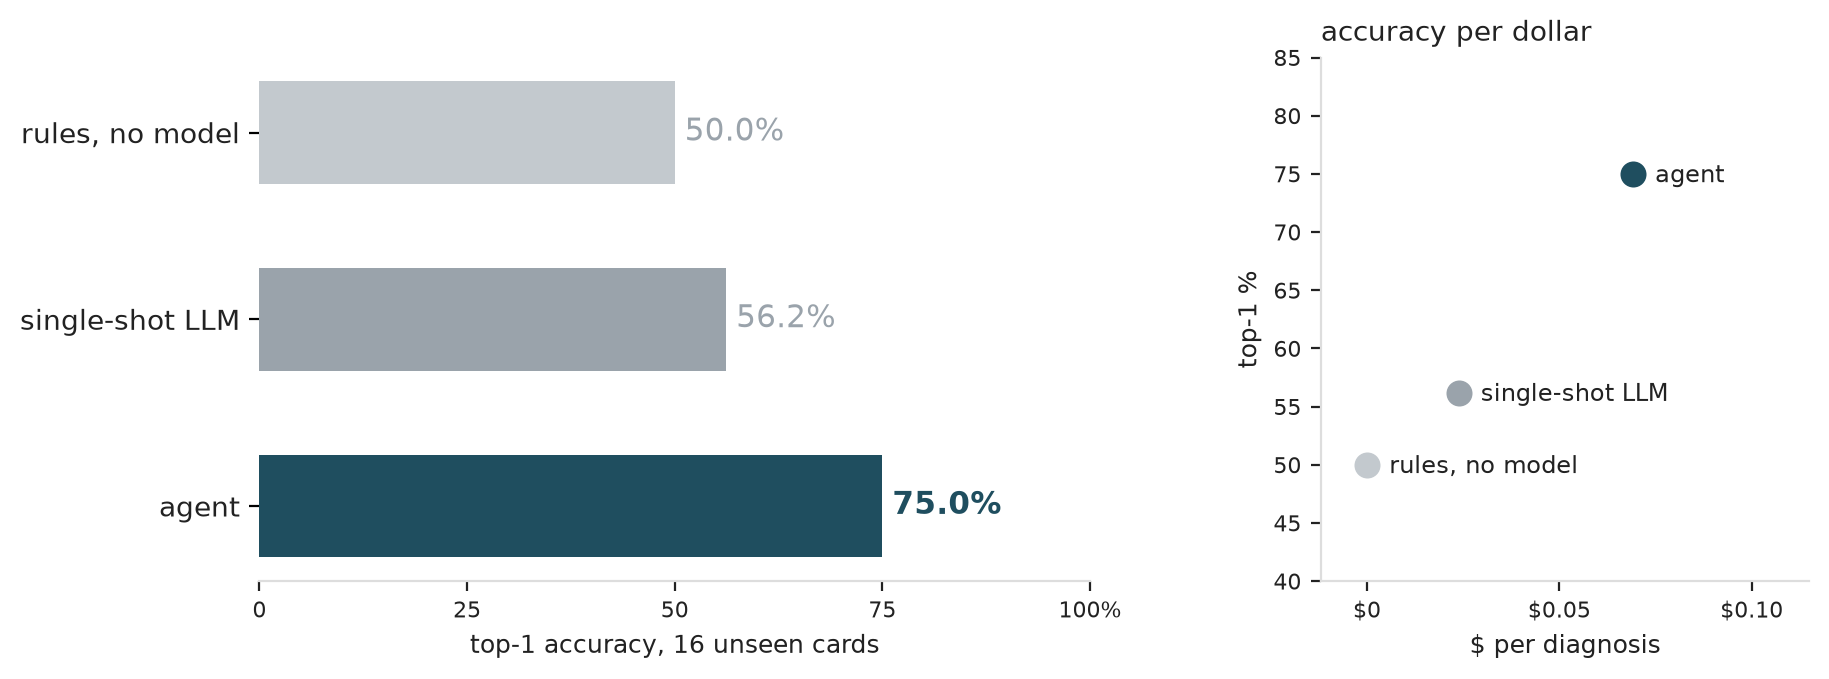
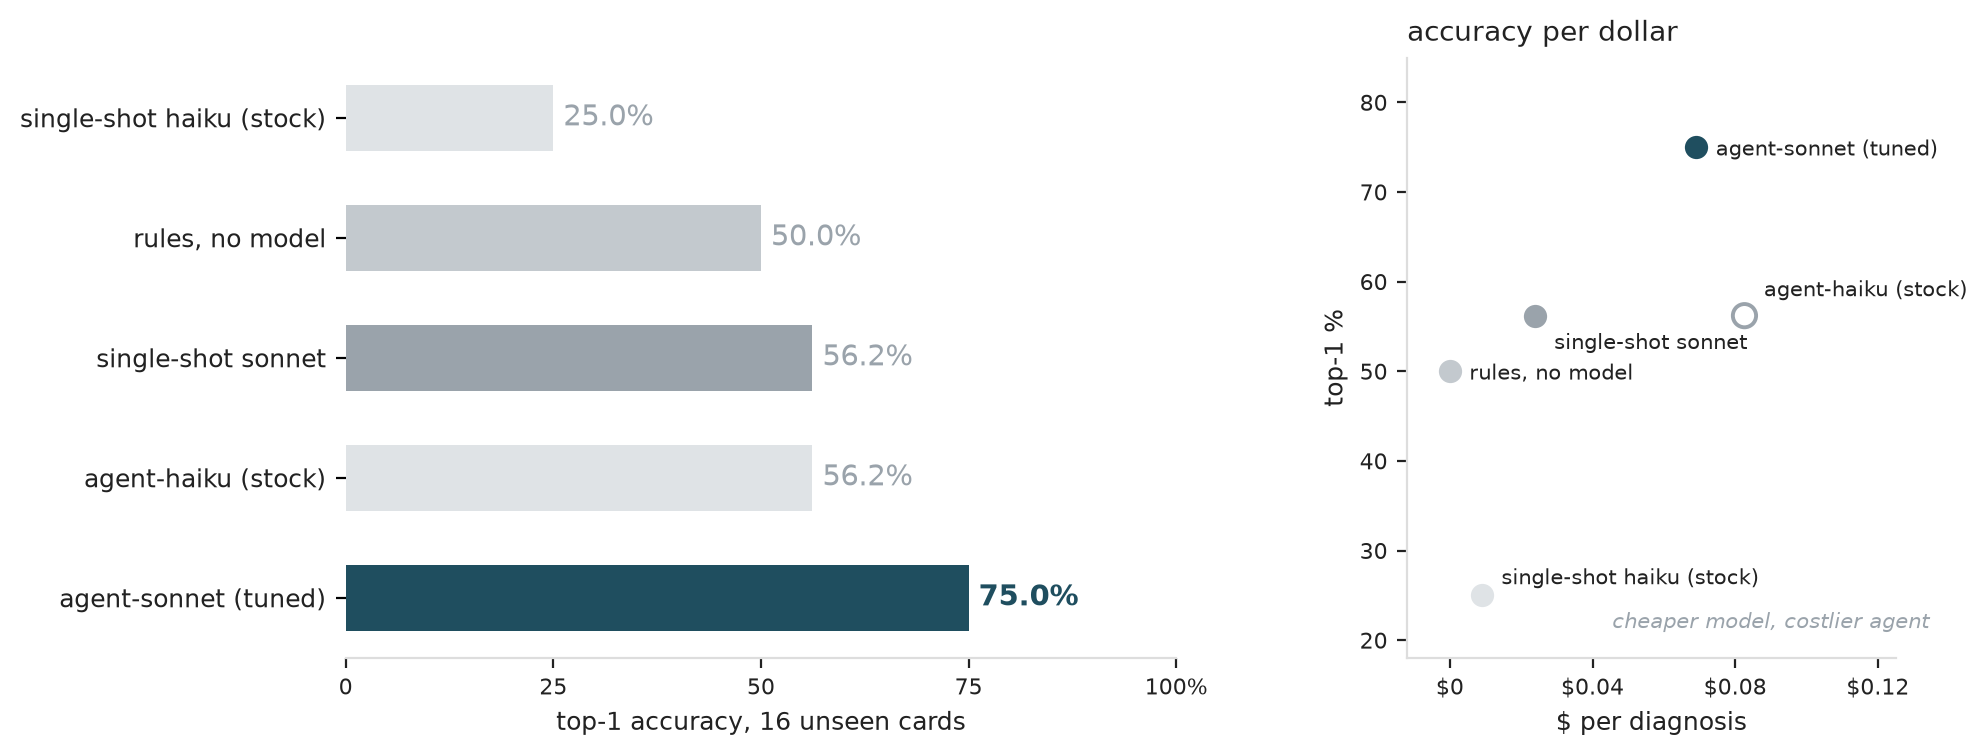
README: five arms, stock and tuned configurations
The haiku arms landed (c54a6c8), so the figure, the results table and the arm
names follow evidence_audit C7: single-shot haiku (stock), agent-haiku (stock),
agent-sonnet (tuned). C7 is explicit that this is not a model comparison -- haiku
4.5 rejects the thinking and effort parameters the tuned arms use, so swapping the
model swaps three variables -- and the page says so in Limitations rather than
claiming a comparison it cannot support. The no-tools gap is not quoted anywhere:
C7 rules it out as unstable between the two card sets.

Figure: five bars sorted by accuracy, both stock arms in the lightest grey since
they are one configuration rather than two independent results, agent-sonnet in
the accent; the scatter marks agent-haiku hollow and labels the point that matters
-- 2.5x the steps, $3.30 against $3.12, and 18.6 points lower.

Two counts that were about to go stale are now generated as well: the "N more"
findings line counts the F headings in open_items.md, and the agent's failure
modes count the subsections in findings.md -- which had already grown to five.

diff --git a/scripts/tools/readme_check.py b/scripts/tools/readme_check.py
@@ -51,8 +51,9 @@ KEY SOURCES -- each line is the locator docs/evidence_audit.md cites.
   guards                run_agent.py: 3 counters plus 2 `terminated` breakers            (B2)
   max_steps, cost_cap   scripts/agent/config.yaml run.*                                  (B2)
   devset, devset_move   artifacts/agent_runs/devset_20260828 and devset_v2_20260828      (B4)
-  badges, hero_*        merged_holdout16_20260906/report.md, the arm table           (C3, C5)
-  table_all43           merged_all43_20260906/report.md, the arm table               (C4, C5)
+  badges, hero_*        fivearm_holdout16_20260906/report.md, the arm table      (C3, C5, C7)
+  table_all43           fivearm_all43_20260906/report.md, the arm table          (C4, C5, C7)
+  haiku_*, sonnet_spend the same five-arm table: steps ratio, totals, top-1 gap       (C7)
   overfit_*             baseline1.json of baselines_20260828, class-aligned against
                         merged_holdout16_20260906, regraded with run_eval.grade's rule   (C6)
   ci_gates              `gate N:` steps in .github/workflows/ci.yml                      (D1)
@@ -62,6 +63,8 @@ KEY SOURCES -- each line is the locator docs/evidence_audit.md cites.
                         plus each row of baseline1/baseline2.json, merged_* excluded     (E1)
   scale                 git rev-list --count HEAD, wc -l of the tracked code at HEAD     (E2)
   f1_*                  the numbers in the F-1 heading of docs/open_items.md              (D3)
+  more_findings         `## F-N` headings in docs/open_items.md, minus the 3 listed       (D3)
+  failure_modes         `### 1.N` headings in docs/findings.md                            (D3)
   walkthrough_*         one frozen run json plus its card's ground truth
   figure_arms           markdown image line; the png is redrawn by make_figures.py
 """
@@ -89,6 +92,11 @@ WALKTHROUGH_CARD = "blackhole-shipping-01"
 WALKTHROUGH_RUN = "holdout11_agent_20260906"
 
 BADGE_GREY, BADGE_ACCENT = "555", "1f4e5f"
+
+# F items the Findings section spells out; the rest are summed into "N more".
+LISTED_FINDINGS = 3
+NUMBER_WORD = {1: "One", 2: "Two", 3: "Three", 4: "Four", 5: "Five",
+               6: "Six", 7: "Seven", 8: "Eight", 9: "Nine"}
 
 # Keys whose value moves without anyone editing code. --check compares the first
 # number in them with slack instead of demanding the exact string.
@@ -165,37 +173,52 @@ def config():
 
 # ------------------------------------------------------- eval report parsing
 
-ARM_KEYS = [("关键词", "rules"), ("单轮", "single_shot"), ("agent", "agent")]
-ARM_LABEL = {"rules": "rules, no model", "single_shot": "single-shot LLM", "agent": "agent"}
+# Arm labels are Chinese in the reports and one config per arm in the README. The
+# names follow evidence_audit C7: the cheap arms run stock because haiku 4.5
+# rejects the thinking and effort parameters the tuned arms use, so "stock" and
+# "tuned" are part of the arm's name, not a footnote.
+ARM_LABEL = {"rules": "rules, no model",
+             "single_shot_sonnet": "single-shot sonnet",
+             "single_shot_haiku": "single-shot haiku (stock)",
+             "agent_haiku": "agent-haiku (stock)",
+             "agent_sonnet": "agent-sonnet (tuned)"}
 
 
 def arm_key(name):
-    """Report label to stable key. A haiku arm gets a haiku_ prefix, so a
-    cross-configuration report widens the key set instead of colliding with it."""
-    base = None
-    for needle, key in ARM_KEYS:
-        if needle in name:
-            base = key
-    if base is None:
-        return None
-    return ("haiku_" + base) if "haiku" in name.lower() else base
+    """Report label to stable key."""
+    low = name.lower()
+    family = "haiku" if "haiku" in low else "sonnet"
+    if "规则" in name or "关键词" in name:
+        return "rules"
+    if "agent" in low:
+        return f"agent_{family}"
+    if "单轮" in name:
+        return f"single_shot_{family}"
+    return None
 
 
 def report_table(run_dir):
-    """The arm table of a comparison report: {arm_key: {metric: text}}."""
-    body = read(f"artifacts/agent_runs/{run_dir}/report.md")
-    body = body.split("## 四指标对照", 1)[1].split("\n## ", 1)[0]
+    """The arm table of a comparison report: {arm_key: {metric: text}}. Both the
+    three-arm and the five-arm reports open their table with `| 臂 |`, and their
+    first six columns line up, so one parser covers both."""
+    lines = read(f"artifacts/agent_runs/{run_dir}/report.md").split("\n")
+    start = next(i for i, l in enumerate(lines) if l.startswith("| 臂 |"))
     out = collections.OrderedDict()
-    for line in body.strip().split("\n"):
-        if not line.startswith("|") or "---" in line or "top-1" in line:
+    for line in lines[start + 1:]:
+        if not line.startswith("|"):
+            break
+        if "---" in line:
             continue
-        cells = [c.strip() for c in line.strip("|").split("|")]
+        cells = [c.strip().replace("**", "").replace("（", " (").replace("）", ")")
+                 for c in line.strip("|").split("|")]
         key = arm_key(cells[0])
         if key is None:
             continue
-        clean = [c.replace("**", "").replace("（", " (").replace("）", ")") for c in cells]
-        out[key] = {"top1": clean[1], "service": clean[2], "steps": clean[3],
-                    "cost": clean[4], "p95": clean[5]}
+        row = {"top1": cells[1], "service": cells[2], "steps": cells[3],
+               "cost": cells[4], "p95": cells[5]}
+        if len(cells) > 6:
+            row["total"] = cells[6]
+        out[key] = row
     return out
 
 
@@ -314,8 +337,8 @@ def compute():
     rows = recipe_rows()
     stock = instock()
     cfg = config()
-    hold = report_table("merged_holdout16_20260906")
-    all43 = report_table("merged_all43_20260906")
+    hold = report_table("fivearm_holdout16_20260906")
+    all43 = report_table("fivearm_all43_20260906")
     o = overfit()
     hours, batches = batch_logs()
     spend, _runs = api_spend()
@@ -326,10 +349,11 @@ def compute():
     n_stock = len(stock)
     n_hold = len(json.loads(read("scripts/baselines/cardset_holdout16.json")))
     n_eval = len(json.loads(read("scripts/baselines/cardset_all43.json")))
-    top1 = f"{pct_of(hold['agent']['top1']):.1f}%"
-    cost = "${:.3f}".format(usd_of(hold["agent"]["cost"]))
-    p95 = "{:.0f} s".format(float(re.search(r"([0-9.]+)s", hold["agent"]["p95"]).group(1)))
-    gain = pct_of(hold["agent"]["top1"]) - pct_of(hold["single_shot"]["top1"])
+    agent = hold["agent_sonnet"]
+    top1 = f"{pct_of(agent['top1']):.1f}%"
+    cost = "${:.3f}".format(usd_of(agent["cost"]))
+    p95 = "{:.0f} s".format(float(re.search(r"([0-9.]+)s", agent["p95"]).group(1)))
+    gain = pct_of(agent["top1"]) - pct_of(hold["single_shot_sonnet"]["top1"])
 
     v = {}
 
@@ -345,10 +369,10 @@ def compute():
         f"| holdout top-1, agent on {n_hold} unseen cards "
         f"| over the single-shot LLM on the same cards | per diagnosis, wall clock |",
     ])
-    v["figure_arms"] = ("![Top-1 on the {} unseen holdout cards: rules {}, single-shot "
-                        "LLM {}, agent {}](docs/figures/arms_holdout16.png)").format(
-        n_hold, hold["rules"]["top1"].split(" ")[0],
-        hold["single_shot"]["top1"].split(" ")[0], top1)
+    v["figure_arms"] = "![Top-1 on the {} unseen holdout cards: {}]({})".format(
+        n_hold, ", ".join("{} {}".format(ARM_LABEL[k], m["top1"].split(" ")[0])
+                          for k, m in hold.items()),
+        "docs/figures/arms_holdout16.png")
     v["figure_pipeline"] = ("![Pipeline: testbed, fault primitives, scenario cards, probe "
                             "verdicts, evidence packs, three arms, harness, findings]"
                             "(docs/figures/pipeline.png)")
@@ -432,6 +456,21 @@ def compute():
     v["spend"] = "${:.0f} in metered API calls".format(spend)
     v["scale"] = "~{:.0f} commits and ~{:.0f}k lines of Python and shell".format(
         round(commits / 10.0) * 10, code_k)
+
+    # Cross-configuration arms (evidence_audit C7): the cheap arm is not cheaper.
+    v["haiku_steps_ratio"] = "{:.1f}\u00d7 the steps".format(
+        float(all43["agent_haiku"]["steps"]) / float(all43["agent_sonnet"]["steps"]))
+    v["haiku_spend"] = "${:.2f}".format(usd_of(all43["agent_haiku"]["total"]))
+    v["sonnet_spend"] = "${:.2f}".format(usd_of(all43["agent_sonnet"]["total"]))
+    v["haiku_gap"] = "{:.1f} points lower".format(
+        pct_of(all43["agent_sonnet"]["top1"]) - pct_of(all43["agent_haiku"]["top1"]))
+
+    # The Findings section lists 3 of the F items by hand; the rest are counted, so
+    # the "N more" cannot drift when a finding is added.
+    n_more = len(re.findall(r"^## F-\d", read("docs/open_items.md"), re.M)) - LISTED_FINDINGS
+    v["more_findings"] = "{} more".format(NUMBER_WORD[n_more])
+    v["failure_modes"] = "{} failure modes".format(NUMBER_WORD[
+        len(re.findall(r"^### 1\.\d ", read("docs/findings.md"), re.M))].lower())
 
     f1 = re.search(r"^## F-1.*?(\d+)%.*?(\d+) s ", read("docs/open_items.md"), re.M)
     v["f1_rate"] = f"{f1.group(1)}% failure rate"

diff --git a/scripts/tools/make_figures.py b/scripts/tools/make_figures.py
@@ -27,10 +27,20 @@ PIPELINE_PNG = os.path.join(FIGURES, "pipeline.png")
 
 # Two greys and one dark accent: the eye should land on the agent bar and nowhere
 # else. Text is near-black rather than black to sit calmly on white.
-GREY, GREY_DARK, ACCENT, INK = "#c3c9ce", "#9aa3ab", "#1f4e5f", "#222222"
-ARMS = [("rules, no model", "rules", GREY),
-        ("single-shot LLM", "single_shot", GREY_DARK),
-        ("agent", "agent", ACCENT)]
+GREY_LIGHT, GREY, GREY_DARK = "#dfe3e6", "#c3c9ce", "#9aa3ab"
+ACCENT, INK = "#1f4e5f", "#222222"
+
+# Five arms. The two stock-configuration arms share the lightest grey: they are one
+# configuration, not two independent results (evidence_audit C7). Hollow marker on
+# agent-haiku in the scatter, because that point is the one worth looking at.
+# Hand-placed so the two arms that land on the same accuracy do not overlap.
+LABEL_OFFSET = {"single_shot_sonnet": (7, -12), "agent_haiku": (7, 7),
+                "single_shot_haiku": (7, 4)}
+ARM_STYLE = {"rules": (GREY, True),
+             "single_shot_sonnet": (GREY_DARK, True),
+             "single_shot_haiku": (GREY_LIGHT, True),
+             "agent_haiku": (GREY_LIGHT, False),
+             "agent_sonnet": (ACCENT, True)}
 
 
 def arms_holdout16(values):
@@ -44,23 +54,25 @@ def arms_holdout16(values):
 
     sys.path.insert(0, HERE)
     import readme_check
-    table = readme_check.report_table("merged_holdout16_20260906")
-    rows = [(label, readme_check.pct_of(table[key]["top1"]),
-             readme_check.usd_of(table[key]["cost"]), color)
-            for label, key, color in ARMS]
+    table = readme_check.report_table("fivearm_holdout16_20260906")
+    rows = sorted(((key, readme_check.ARM_LABEL[key], readme_check.pct_of(m["top1"]),
+                    readme_check.usd_of(m["cost"])) for key, m in table.items()),
+                  key=lambda r: r[2])
 
     fig, (bar, scat) = plt.subplots(
-        1, 2, figsize=(10, 3.4), dpi=200,
+        1, 2, figsize=(10, 3.9), dpi=200,
         gridspec_kw={"width_ratios": [1.7, 1.0], "wspace": 0.35})
     fig.patch.set_facecolor("white")
 
     ys = range(len(rows))
-    bar.barh(list(ys), [r[1] for r in rows], color=[r[3] for r in rows], height=0.55)
-    for y, (label, pct, _cost, color) in zip(ys, rows):
+    bar.barh(list(ys), [r[2] for r in rows],
+             color=[ARM_STYLE[r[0]][0] for r in rows], height=0.55)
+    for y, (key, _label, pct, _cost) in zip(ys, rows):
+        color = ARM_STYLE[key][0]
         bar.text(pct + 1.2, y, f"{pct:.1f}%", va="center", ha="left",
-                 color=color if color != GREY else GREY_DARK, fontsize=11,
+                 color=color if color == ACCENT else GREY_DARK, fontsize=10.5,
                  fontweight="bold" if color == ACCENT else "normal")
-    bar.set_yticks(list(ys), [r[0] for r in rows], fontsize=10, color=INK)
+    bar.set_yticks(list(ys), [r[1] for r in rows], fontsize=9, color=INK)
     bar.invert_yaxis()
     bar.set_xlim(0, 100)
     bar.set_xticks([0, 25, 50, 75, 100], ["0", "25", "50", "75", "100%"])
@@ -70,16 +82,22 @@ def arms_holdout16(values):
         bar.spines[side].set_visible(False)
     bar.spines["bottom"].set_color("#dddddd")
 
-    for label, pct, cost, color in rows:
-        scat.scatter([cost], [pct], s=70, color=color, zorder=3)
+    for key, label, pct, cost in rows:
+        color, filled = ARM_STYLE[key]
+        scat.scatter([cost], [pct], s=70, zorder=3,
+                     color=color if filled else "none",
+                     edgecolors=GREY_DARK if not filled else color,
+                     linewidths=1.4 if not filled else 0)
         scat.annotate(label, (cost, pct), textcoords="offset points",
-                      xytext=(8, -3), fontsize=8.5, color=INK)
+                      xytext=LABEL_OFFSET.get(key, (7, -3)), fontsize=7.5, color=INK)
+    scat.text(0.42, 0.05, "cheaper model, costlier agent", transform=scat.transAxes,
+              fontsize=7.5, color=GREY_DARK, style="italic")
     scat.set_title("accuracy per dollar", fontsize=10, color=INK, loc="left")
     scat.set_xlabel("$ per diagnosis", fontsize=9, color=INK)
     scat.set_ylabel("top-1 %", fontsize=9, color=INK)
-    scat.set_xlim(-0.012, 0.115)
-    scat.set_xticks([0.00, 0.05, 0.10], ["$0", "$0.05", "$0.10"])
-    scat.set_ylim(40, 85)
+    scat.set_xlim(-0.012, 0.125)
+    scat.set_xticks([0.00, 0.04, 0.08, 0.12], ["$0", "$0.04", "$0.08", "$0.12"])
+    scat.set_ylim(18, 85)
     scat.tick_params(labelsize=8, colors=INK)
     for side in ("top", "right"):
         scat.spines[side].set_visible(False)

diff --git a/README.md b/README.md
@@ -22,11 +22,11 @@ A script injects one fault into a running OpenTelemetry Demo and reverts it. The
 
 <!-- GEN:figure_arms -->
 
-![Top-1 on the 16 unseen holdout cards: rules 50.0%, single-shot LLM 56.2%, agent 75.0%](docs/figures/arms_holdout16.png)
+![Top-1 on the 16 unseen holdout cards: rules, no model 50.0%, single-shot sonnet 56.2%, single-shot haiku (stock) 25.0%, agent-haiku (stock) 56.2%, agent-sonnet (tuned) 75.0%](docs/figures/arms_holdout16.png)
 
 <!-- /GEN -->
 
-Three arms on 16 unseen cards: rules over the pack, one model turn with no tools, and an agent with 6 read-only tools. One card is worth 6.25 points here, so the gaps are an ordering rather than a measurement.
+Five arms on 16 unseen cards: rules over the pack, one model turn with no tools, and an agent with 6 read-only tools, the last two run in a stock and a tuned configuration. One card is worth 6.25 points here, so the gaps are an ordering rather than a measurement.
 
 ## One diagnosis, start to finish
 
@@ -82,18 +82,19 @@ The agent never sees the card id, the primitive that ran, or the ground truth: i
 - **Rules, no model.** A deterministic walk of the topology out from the alerting services, every threshold taken from constants the harness already used. Zero API calls.
 - **Single-shot LLM.** One model turn over a fixed digest of the same pack, no tools, same model and answer space as the agent. The only variable between them is the loop.
 - Tuning is measurable on the rules arm: class-aligned, it falls 16.7 points from 12/18 on cards it was tuned on to 8/16 on cards it has not seen, blackhole going 3/6 to 0/6.
+- The stock arms run haiku 4.5 without thinking or effort, which that model rejects; the tuned arms run sonnet 5 with both. Prompt, tools, guards and breakers are identical across all five.
 
 <!-- GEN:table_all43 -->
 
 | arm | top-1 | service-only | steps | cost/card | p95 |
 | --- | ---: | ---: | ---: | ---: | ---: |
 | rules, no model | 62.8% (27/43) | 72.1% (31/43) | 1.00 | $0.0000 | 0.4s |
-| single-shot LLM | 46.5% (20/43) | 72.1% (31/43) | 1.00 | $0.0240 | 38.9s |
-| agent | 65.1% (28/43) | 83.7% (36/43) | 5.40 | $0.0726 | 63.8s |
+| single-shot sonnet | 46.5% (20/43) | 72.1% (31/43) | 1.00 | $0.0240 | 38.9s |
+| single-shot haiku (stock) | 39.5% (17/43) | 69.8% (30/43) | 1.00 | $0.0091 | 9.8s |
+| agent-haiku (stock) | 46.5% (20/43) | 60.5% (26/43) | 13.40 | $0.0768 | 93.0s |
+| agent-sonnet (tuned) | 65.1% (28/43) | 83.7% (36/43) | 5.40 | $0.0726 | 63.8s |
 
 <!-- /GEN -->
-
-<!-- haiku arms: added by cross-model step -->
 
 - No arm is clean here: the set holds the 19-card dev set and the 27 cards the rules arm was tuned on, and one card is worth 2.33 points.
 - 43 cards are evaluated while 45 in stock — the list was frozen before the last batch landed, which is what keeps two runs comparable.
@@ -114,16 +115,17 @@ The agent never sees the card id, the primitive that ran, or the ground truth: i
 
 ## Findings
 
+- **Cost** · Swapping in the cheaper model did not buy a cheaper agent: 2.5× the steps ate the per-token discount, $3.30 vs $3.12 on 43 cards, 18.6 points lower.
 - **F-7** · Rules that score 12/18 on cards they were tuned on fall to 8/16 on unseen ones — overfitting measured, not assumed.
 - **F-8** · Breaking a connection removed the instrumentation that proves it came back, taking cards out of the set until the target was restarted.
 - **F-1** · A 10% failure rate is invisible to a 120-second window; that card left the set instead of becoming a hard one.
-- Five more, with the agent's four failure modes, in [`docs/findings.md`](docs/findings.md).
+- Five more, with the agent's five failure modes, in [`docs/findings.md`](docs/findings.md).
 
 ## Limitations
 
 - The verdicts are audited, not independently validated: no labelled control set says the verdicts themselves are right.
 - The holdout set has no misconfiguration and no memory-leak cards, the two classes the rules arm is best at.
-- Every accuracy number above comes from one model family.
+- Two models from one family, and the cheaper one runs stock while the other is tuned — a cost-configuration comparison, not a model comparison.
 
 ## Reproduce
 
